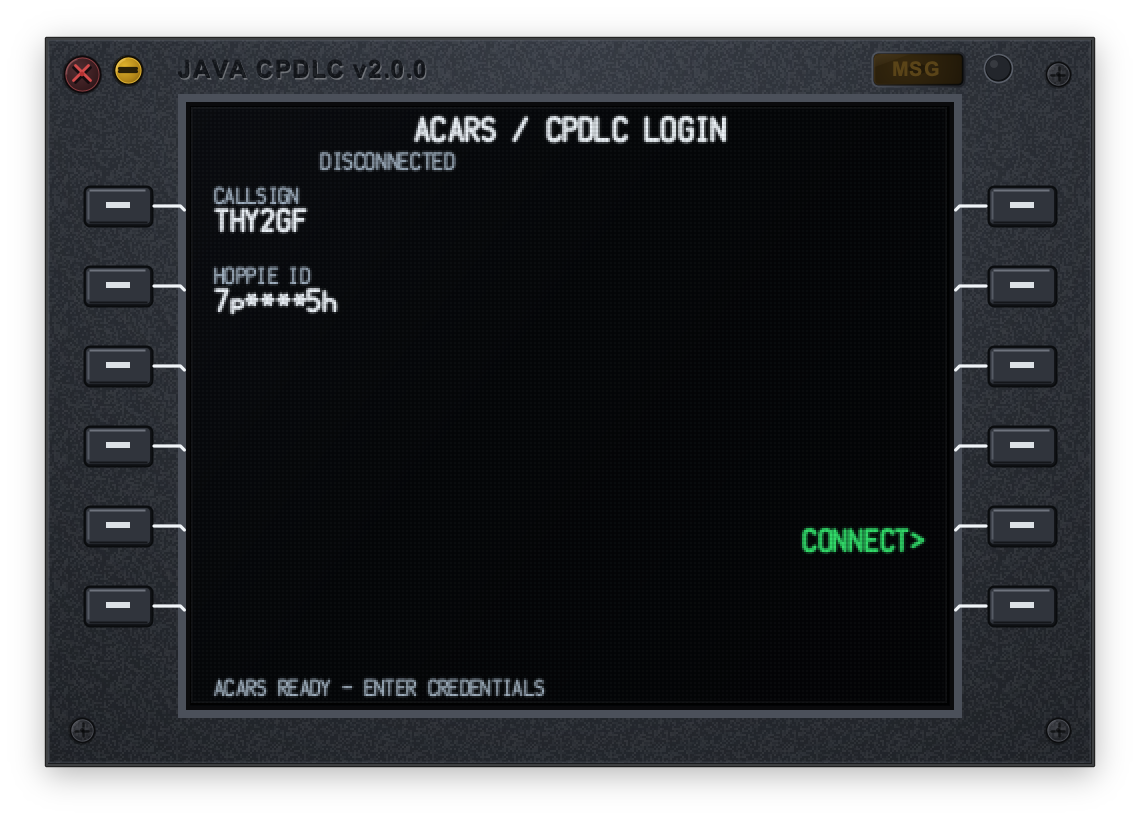
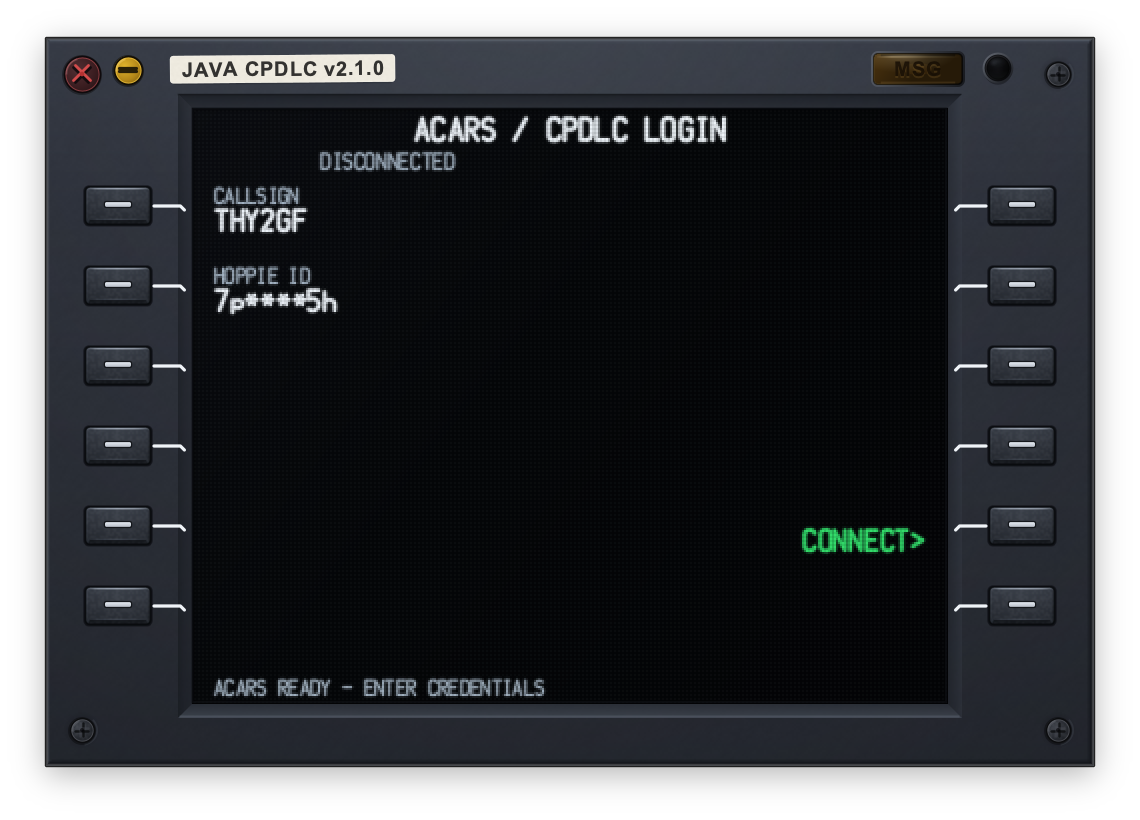
release v2.1.0

diff --git a/test/service/UpdateCheckerTest.java b/test/service/UpdateCheckerTest.java
@@ -22,9 +22,11 @@ public class UpdateCheckerTest {
         assertTrue(UpdateChecker.isNewerVersion("1.1.2", "1.1.3"));
         assertTrue(UpdateChecker.isNewerVersion("1.1.2", "v1.2.0"));
         assertTrue(UpdateChecker.isNewerVersion("1.1.2", "2.0.0"));
+        assertTrue(UpdateChecker.isNewerVersion("2.0.0", "2.1.0"));
         assertTrue(UpdateChecker.isNewerVersion("1.1.2", "1.1.2.1"));
 
         // Equal or older version cases
+        assertFalse(UpdateChecker.isNewerVersion("2.1.0", "2.0.0"));
         assertFalse(UpdateChecker.isNewerVersion("1.1.2", "1.1.2"));
         assertFalse(UpdateChecker.isNewerVersion("1.1.2", "v1.1.2"));
         assertFalse(UpdateChecker.isNewerVersion("1.1.2", "1.1.1"));

diff --git a/src/service/UpdateChecker.java b/src/service/UpdateChecker.java
@@ -15,7 +15,7 @@ import java.net.URL;
 public class UpdateChecker {
 
     /** Current application version string. */
-    public static final String CURRENT_VERSION = "2.0.0";
+    public static final String CURRENT_VERSION = "2.1.0";
     private static final String GITHUB_RELEASES_API = "https://api.github.com/repos/thmsacar/java-cpdlc/releases/latest";
 
     /**

diff --git a/README.md b/README.md
@@ -2,7 +2,7 @@
 Java CPDLC is a multi-platform CPDLC Client for HoppieAcars. 
 It is written on Java so you can use it on any platform (Windows/Linux/macOS).
 
-With version 2.0.0, Java CPDLC features a brand new **CDU style GUI** as the default interface. The **legacy GUI** remains available as well. Active development and future bug fixes are focused on the CDU style GUI; the legacy interface will remain available, though bugs may occur.
+With version v2, Java CPDLC features a brand new **CDU style GUI** as the default interface. The **legacy GUI** remains available as well. Active development and future bug fixes are focused on the CDU style GUI; the legacy interface will remain available, though bugs may occur.
 
 <p align="center">
   <img src="src/resources/images/screenshot_new_gui.png" width="70%" alt="Java CPDLC CDU Style Interface"><br>
@@ -37,37 +37,31 @@ The project uses **Maven** for the build process, so no manual library downloads
 2. **Run:** After the build is complete, you can find executable JAR files in the `target/` folder:
    - **CDU Style GUI (Default)**:
      ```bash
-     java -jar target/java-cpdlc-2.0.0.jar
+     java -jar target/java-cpdlc-2.1.0.jar
      ```
    - **Legacy GUI**:
      ```bash
-     java -jar target/java-cpdlc-2.0.0-legacy.jar
+     java -jar target/java-cpdlc-2.1.0-legacy.jar
      ```
    
 ## Usage
 1. Once compiled and run, you should have a login page. You need to put in your callsign and Hoppie ID. Click SAVE button
 2. Thereafter, everything should be pretty straight forward.
 
-- If your callsign is in green color, the connection with Hoppie server has established.
-- If any connection problem occurs your callsign will become red.
-
-### Message Color Coding
-- **Blue**: CPDLC messages
-- **Yellow**: Telex messages
-- **Red**: System messages (Mostly related to Hoppie connection )
+- If the LED on top left is in green color, the connection with Hoppie server has established.
+- If any connection problem occurs the LED will become red.
 
 ### Automatic CPDLC Handover & Logoff
 Incoming ATC handover instructions and logoff messages are processed automatically
 - **Handover**: Automatically requests a logon to the next ATS unit and logs off from the previous station once accepted.
 - **Logoff**: Automatically disconnects from the active ATS unit upon receiving a service termination message.
 
-
+### Message Color Coding in Legacy Version
+- **Blue**: CPDLC messages
+- **Yellow**: Telex messages
+- **Red**: System messages (Mostly related to Hoppie connection )
 
 ## Contribution
-As of now, the code doesn't have javadoc so it's a bit of mess. I will for sure write javadoc and necessary comments to the code. 
+Any pull requests are welcome.
 
-However, any pull requests are still welcome. See below what I am currently working on. 
-
-#### Features to implement
-- Oceanic Clearance implementation
 

diff --git a/RELEASE_NOTES.md b/RELEASE_NOTES.md
@@ -1,12 +1,6 @@
-## Version 2.0.0 Release Notes
+## Version 2.1.0 Release Notes
 
-### New CDU Style GUI
-Version 2.0.0 introduces a brand new CDU style interface as the primary GUI.
+- Updated GUI to be more realistic (panel looks more realistic, LEDs and titles).
+- Improved paging in message list and message display (added PREV in middle pages so not forced to go through whole cycle).
 
-### Dual UI Availability
-With version 2.0.0, the application now offers two interfaces:
-- **CDU Style GUI (Default)**: The new CDU style interface is now the primary UI and will be actively maintained for future updates and bug fixes.
-- **Legacy GUI**: The legacy interface remains available for users who prefer the classic layout. Please note that future maintenance will focus on the CDU style interface, so bugs may occur in the legacy GUI.
-
-**Full Changelog**: https://github.com/thmsacar/java-cpdlc/compare/v1.3.1...v2.0.0
-
+**Full Changelog**: https://github.com/thmsacar/java-cpdlc/compare/v2.0.0...v2.1.0
